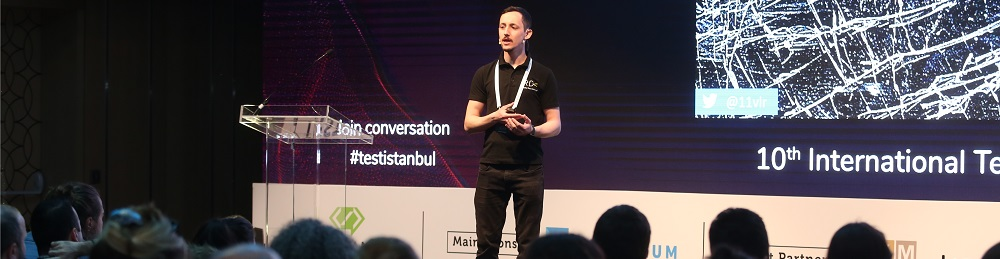
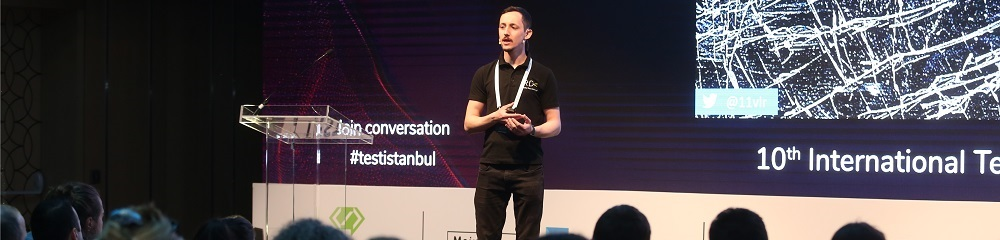
Altering header image, changing position of events bar on hme page

diff --git a/_layouts/home.html b/_layouts/home.html
@@ -38,38 +38,11 @@
         padding:7px;
         background-color: #221c26;
         color:white;
+        text-align: center;
     }
 	</style>
     <div id="bgImage" class="notepad-site-head-content" >
-            <a href="https://vivrichards.co.uk/events" title="View events"><div class="notepad-content event-bar">
-            
-                <span>Upcoming Events: </span>
-
-                    {% assign events_by_year = site.data.conferences | group_by:"year" | sort:"startdate" |  %}
-                    {% for year in events_by_year%}
-                        {% for event in year.items offset:1 limit:1 %}
-                            {% capture now %}{{'now' | date: '%s' | plus: 0 %}}{% endcapture %}
-                            {% capture date %}{{event.startdate | date: '%s' | plus: 0 %}}{% endcapture %}
-                            {% if date > now %}
-                                <span>{{event.title}} {{event.role}} at {{ event.name }} in {{ event.city }}</span>
-                            {% endif %}                    
-                        {% endfor %}
-                    {% endfor %}
-
-                    <span>| Recent Events: </span>
-                    {% assign events_by_year = site.data.conferences | group_by:"year" | %}
-                    {% for year in events_by_year  offset:0 limit:1 %}
-                    
-                        {% for event in year.items offset:0 limit:1 %}
-                            {% capture now %}{{'now' | date: '%s' | plus: 0 %}}{% endcapture %}
-                            {% capture date %}{{event.startdate | date: '%s' | plus: 0 %}}{% endcapture %}
-                            {% if date <= now %}
-                            <span>{{event.title}} {{event.role}} at {{ event.name }} in {{ event.city }}</span>
-                            {% endif %}               
-                        {% endfor %}
-                    {% endfor %}
-                    
-             </div></a>
+           
         <div class="notepad-site-head-bg"></div>
         <h1 class="notepad-blog-title">
             <span class="notepad-site-head-title-bg">
@@ -80,6 +53,35 @@
     </div>
 </header>
 
+<a href="https://vivrichards.co.uk/events" title="View events"><div class="notepad-content event-bar">
+            
+        <span>Upcoming Events: </span>
+
+            {% assign events_by_year = site.data.conferences | group_by:"year" | sort:"startdate" |  %}
+            {% for year in events_by_year%}
+                {% for event in year.items offset:1 limit:1 %}
+                    {% capture now %}{{'now' | date: '%s' | plus: 0 %}}{% endcapture %}
+                    {% capture date %}{{event.startdate | date: '%s' | plus: 0 %}}{% endcapture %}
+                    {% if date > now %}
+                        <span>{{event.title}} {{event.role}} at {{ event.name }} in {{ event.city }}</span>
+                    {% endif %}                    
+                {% endfor %}
+            {% endfor %}
+
+            <span>| Recent Events: </span>
+            {% assign events_by_year = site.data.conferences | group_by:"year" | %}
+            {% for year in events_by_year  offset:0 limit:1 %}
+            
+                {% for event in year.items offset:0 limit:1 %}
+                    {% capture now %}{{'now' | date: '%s' | plus: 0 %}}{% endcapture %}
+                    {% capture date %}{{event.startdate | date: '%s' | plus: 0 %}}{% endcapture %}
+                    {% if date <= now %}
+                    <span>{{event.title}} {{event.role}} at {{ event.name }} in {{ event.city }}</span>
+                    {% endif %}               
+                {% endfor %}
+            {% endfor %}
+            
+     </div></a>
 
 <main class="notepad-content" role="main">
 
